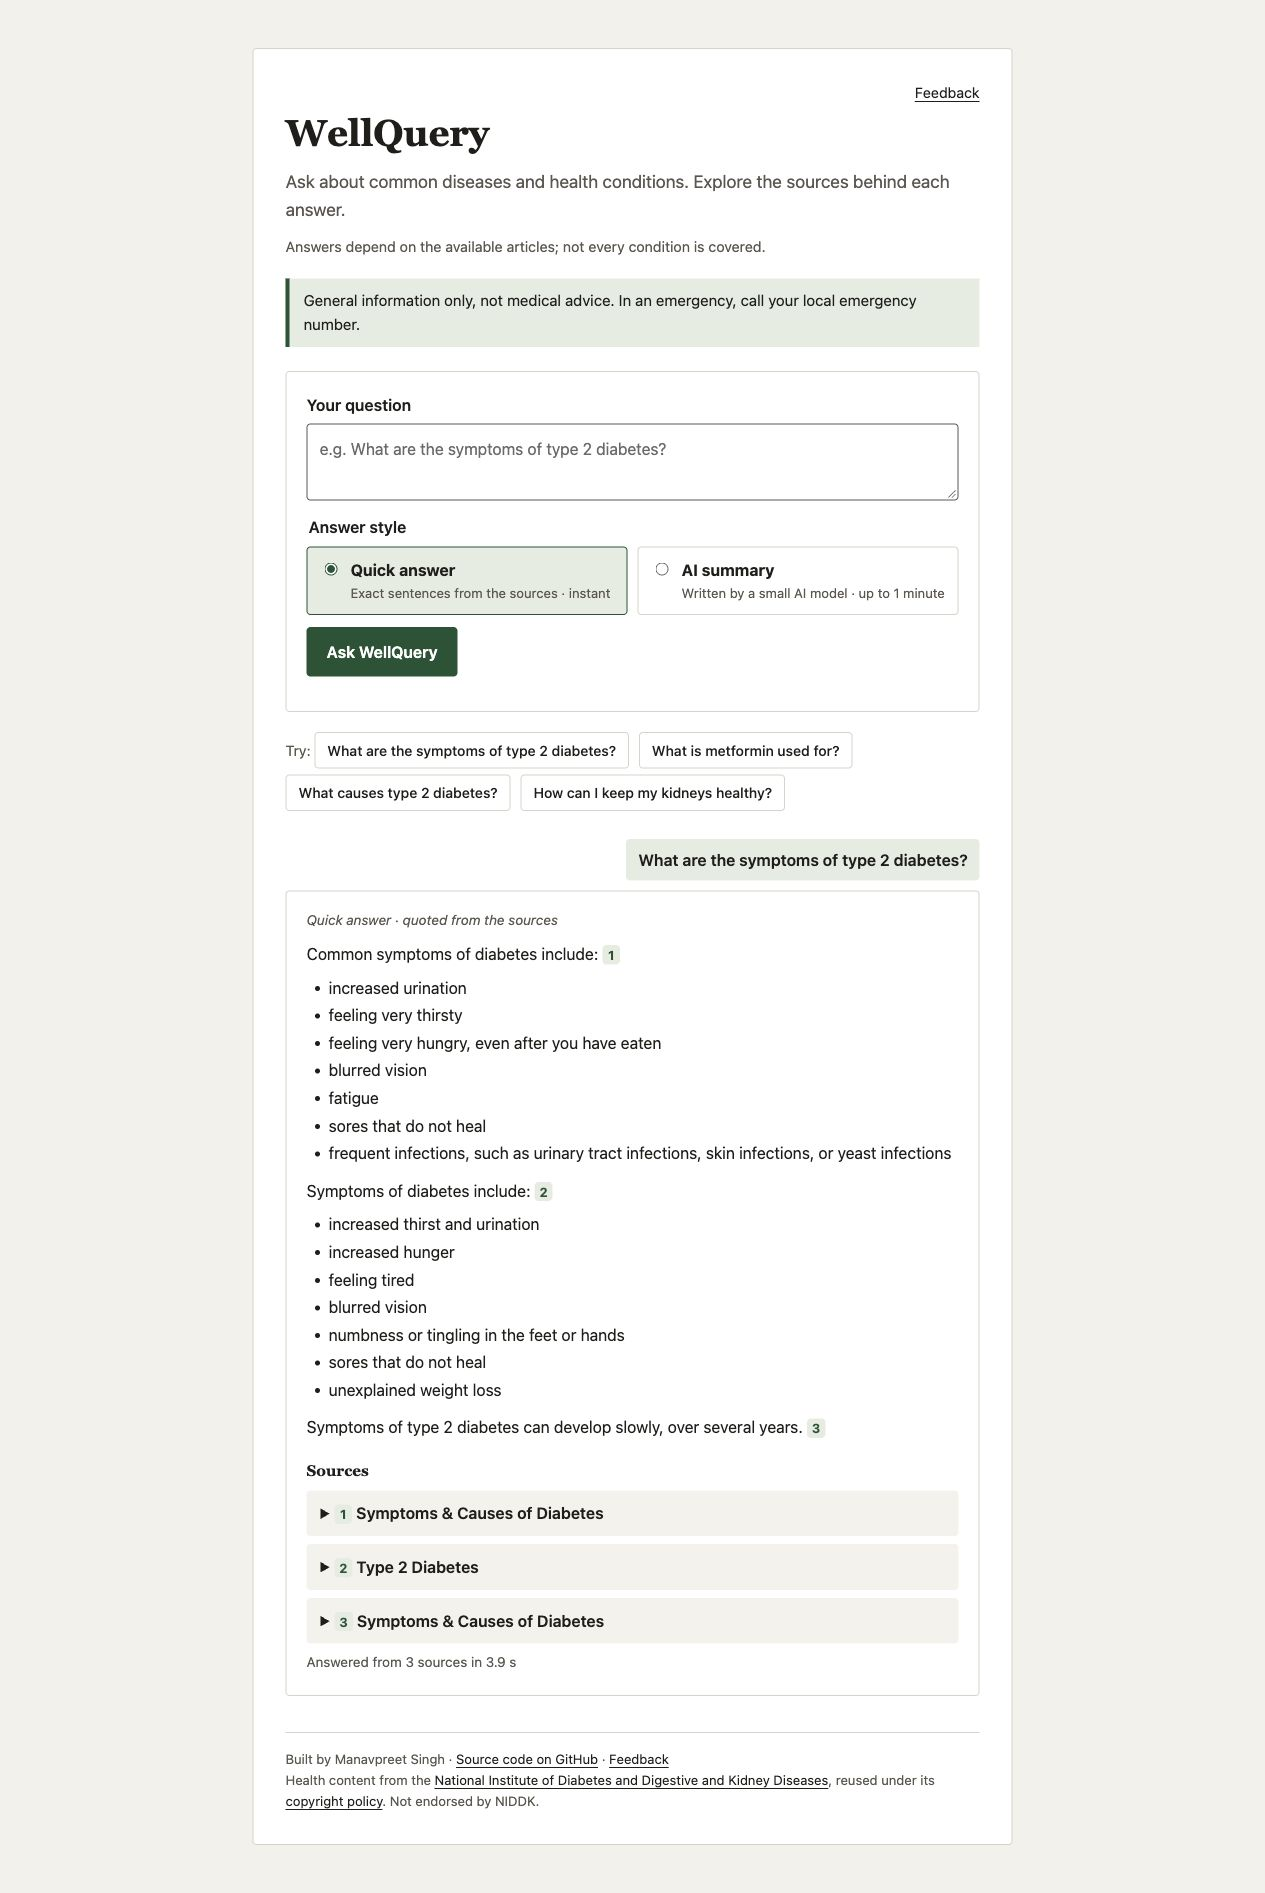
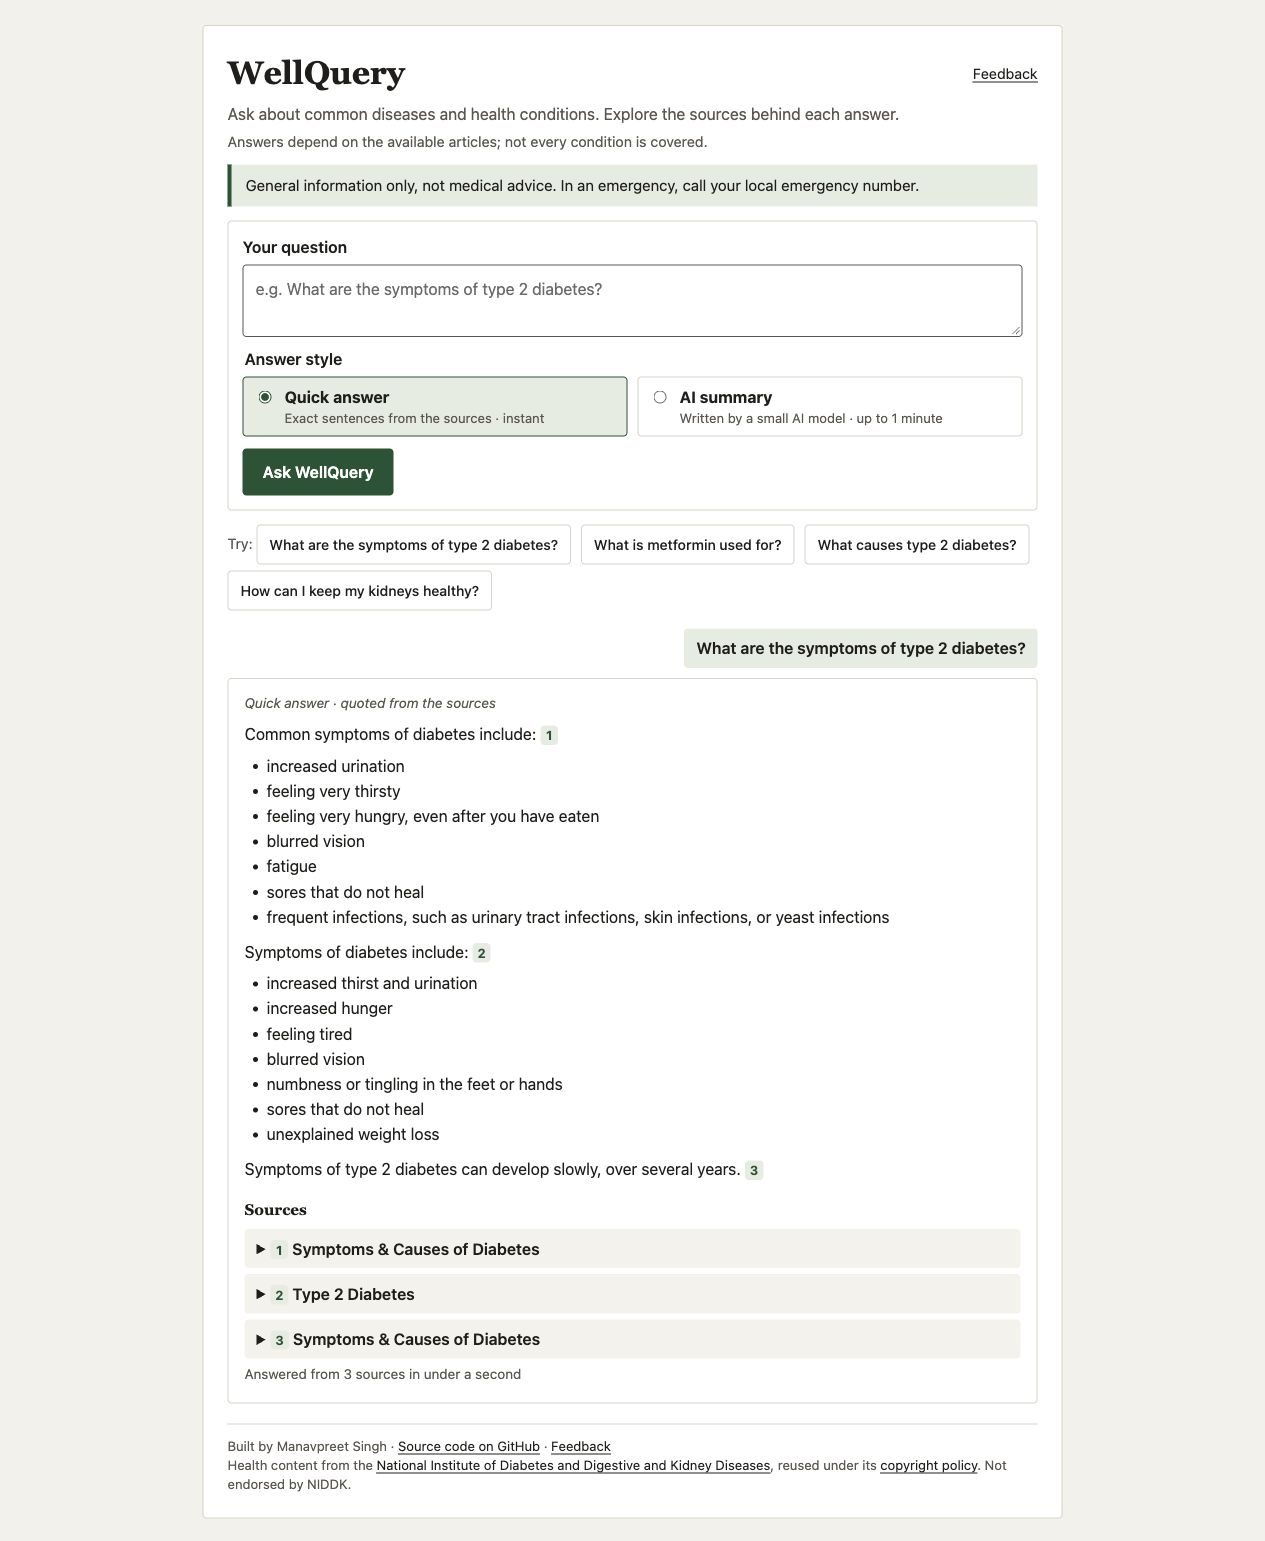
style: compact WellQuery layout and refresh preview

Changed region(s): [[0.185, 0.0311, 0.8016, 0.9656], [0.6474, 0.3115, 0.8016, 0.3738], [0.7399, 0.0311, 0.8016, 0.0623]]

diff --git a/static/style.css b/static/style.css
@@ -12,8 +12,8 @@
   }
 }
 * { box-sizing: border-box; }
-body { margin: 0; padding: 24px 16px; background: var(--bg); color: var(--text); font: 16px/1.6 system-ui, sans-serif; }
-main { max-width: 760px; margin: 24px auto; padding: 32px; border: 1px solid var(--line); border-radius: 4px; background: var(--card); }
+body { margin: 0; padding: 16px; background: var(--bg); color: var(--text); font: 16px/1.45 system-ui, sans-serif; }
+main { max-width: 860px; margin: 8px auto; padding: 24px; border: 1px solid var(--line); border-radius: 4px; background: var(--card); }
 h1, h2, h3 { font-family: var(--heading); font-weight: 600; }
 a { color: var(--link); text-underline-offset: 3px; }
 :focus-visible { outline: 2px solid var(--accent); outline-offset: 3px; }
@@ -24,27 +24,30 @@ textarea { display: block; width: 100%; margin-top: 6px; padding: 12px; font: in
 select { width: 100%; padding: 10px; margin: 8px 0; font: inherit; }
 
 /* Chat page */
-.hero nav { text-align: right; font-size: .9rem; }
-.hero h1 { margin: 0; font-size: 2.3rem; }
-.tagline { margin: 4px 0 12px; font-size: 1.1rem; color: var(--muted); }
-.coverage { display: flex; flex-wrap: wrap; gap: 0; margin: 0 0 20px; padding: 0; list-style: none; color: var(--muted); font-size: .9rem; }
+.hero { display: grid; grid-template-columns: 1fr auto; align-items: center; gap: 6px 16px; }
+.hero nav { grid-column: 2; grid-row: 1; text-align: right; font-size: .9rem; }
+.hero h1 { grid-column: 1; grid-row: 1; }
+.hero .tagline, .hero .coverage { grid-column: 1 / -1; }
+.hero h1 { margin: 0; font-size: 2rem; }
+.tagline { margin: 0; font-size: 1rem; color: var(--muted); }
+.coverage { display: flex; flex-wrap: wrap; gap: 0; margin: 0 0 12px; padding: 0; list-style: none; color: var(--muted); font-size: .9rem; }
 .coverage li + li::before { content: '·'; padding: 0 8px; }
-.notice { margin: 0 0 24px; border-left: 4px solid var(--accent); padding: 10px 14px; background: var(--accent-soft); font-size: .95rem; }
+.notice { margin: 0 0 14px; border-left: 4px solid var(--accent); padding: 10px 14px; background: var(--accent-soft); font-size: .95rem; }
 #mode, #status { font-size: .9rem; }
-.ask { padding: 20px; border: 1px solid var(--line); border-radius: 4px; }
-.styles { display: grid; grid-template-columns: 1fr 1fr; gap: 10px; margin: 14px 0 0; padding: 0; border: 0; }
+.ask { padding: 14px; border: 1px solid var(--line); border-radius: 4px; }
+.styles { display: grid; grid-template-columns: 1fr 1fr; gap: 10px; margin: 10px 0 0; padding: 0; border: 0; }
 .styles legend { margin-bottom: 6px; font-weight: 600; }
-.style-option { display: flex; gap: 10px; align-items: flex-start; padding: 10px 12px; border: 1px solid var(--line); border-radius: 4px; font-weight: 400; cursor: pointer; }
+.style-option { display: flex; gap: 10px; align-items: flex-start; padding: 8px 10px; border: 1px solid var(--line); border-radius: 4px; font-weight: 400; cursor: pointer; }
 .style-option:has(input:checked) { border-color: var(--accent); background: var(--accent-soft); }
 .style-option input { margin-top: 5px; accent-color: var(--accent); }
 .style-option small { display: block; color: var(--muted); font-size: .82rem; }
-#examples { margin: 14px 0 0; color: var(--muted); font-size: .9rem; }
+#examples { margin: 8px 0 0; color: var(--muted); font-size: .9rem; }
 #examples .example { margin: 6px 6px 0 0; padding: 6px 12px; border: 1px solid var(--accent); background: transparent; color: var(--accent); font-size: .88rem; font-weight: 500; }
 #examples .example:hover { background: var(--accent-soft); }
 #examples .example { color: var(--text); border-color: var(--line); }
-.turn { margin: 28px 0; }
+.turn { margin: 18px 0; }
 .question { margin: 0 0 10px auto; width: fit-content; max-width: 85%; padding: 8px 12px; border-radius: 4px; background: var(--accent-soft); color: var(--text); font-weight: 600; overflow-wrap: anywhere; }
-.answer { padding: 18px 20px; border: 1px solid var(--line); border-radius: 4px; overflow-wrap: anywhere; }
+.answer { padding: 14px 16px; border: 1px solid var(--line); border-radius: 4px; overflow-wrap: anywhere; }
 .answer.loading { color: var(--muted); }
 .answer.loading p::before { content: ""; display: inline-block; width: .8em; height: .8em; margin-right: 10px; border: 2px solid var(--accent); border-right-color: transparent; border-radius: 50%; animation: spin 0.8s linear infinite; }
 @keyframes spin { to { transform: rotate(360deg); } }
@@ -55,7 +58,7 @@ select { width: 100%; padding: 10px; margin: 8px 0; font: inherit; }
 .claim li { margin: 2px 0; }
 .cite { display: inline-block; min-width: 1.4em; padding: 0 5px; border-radius: 4px; background: var(--accent-soft); color: var(--accent); font-size: .8rem; font-weight: 700; text-align: center; text-decoration: none; line-height: 1.5; }
 .answer h3 { margin: 18px 0 8px; font-size: .95rem; }
-details.source { margin: 8px 0; padding: 10px 14px; background: var(--quote); border-radius: 4px; }
+details.source { margin: 6px 0; padding: 8px 12px; background: var(--quote); border-radius: 4px; }
 details.source > summary { cursor: pointer; font-weight: 600; }
 blockquote { margin: 10px 0; padding-left: 12px; border-left: 3px solid var(--accent); }
 details.passage { margin: 6px 0 10px; font-size: .9rem; }
@@ -66,7 +69,7 @@ details.passage summary { cursor: pointer; color: var(--link); }
 .refusal.urgent { background: var(--urgent-soft); color: var(--urgent); }
 .refusal.caution { background: var(--caution-soft); color: var(--caution); }
 .error { margin: 0; color: var(--urgent); }
-footer { margin-top: 36px; padding-top: 16px; border-top: 1px solid var(--line); color: var(--muted); font-size: .82rem; }
+footer { margin-top: 20px; padding-top: 12px; border-top: 1px solid var(--line); color: var(--muted); font-size: .82rem; }
 @media (max-width: 540px) {
   body { padding: 8px; } main { padding: 18px 16px; margin: 8px auto; }
   .styles { grid-template-columns: 1fr; } .ask { padding: 14px; } .answer { padding: 14px; }
@@ -82,3 +85,8 @@ th, td { padding: 12px; text-align: left; border-bottom: 1px solid var(--line); 
 thead { background: var(--accent-soft); }
 meter { width: 70px; }
 dd { margin: 0 0 12px; overflow-wrap: anywhere; }
+
+/* Empty status messages should not reserve a blank row in the form. */
+#status:empty { display: none; }
+button { min-height: 40px; }
+textarea { min-height: 72px; }

diff --git a/templates/evaluation.html b/templates/evaluation.html
@@ -1,5 +1,5 @@
 <!doctype html><html lang="en"><head><meta charset="utf-8"><meta name="viewport" content="width=device-width,initial-scale=1">
-<title>WellQuery · Evaluation</title><link rel="stylesheet" href="{{ request.url_for('static', path='style.css') }}"></head>
+<title>WellQuery · Evaluation</title><link rel="stylesheet" href="{{ request.url_for('static', path='style.css') }}?v=2"></head>
 <body><main class="dashboard"><nav><a href="/">← Chat</a></nav><h1>Evaluation results</h1>
 <p>Compare retrieval methods and inspect what has actually been reviewed.</p>
 <p class="notice">Question verification and exact quotations do not establish answer correctness or clinical safety.</p>

diff --git a/templates/index.html b/templates/index.html
@@ -2,7 +2,7 @@
 <html lang="en"><head><meta charset="utf-8"><meta name="viewport" content="width=device-width,initial-scale=1">
 <title>WellQuery</title>
 <meta name="description" content="Ask general questions about common diseases and health conditions, and read the available source passages.">
-<link rel="stylesheet" href="{{ request.url_for('static', path='style.css') }}"></head>
+<link rel="stylesheet" href="{{ request.url_for('static', path='style.css') }}?v=2"></head>
 <body><main>
 <header class="hero">
   <nav><a href="https://github.com/manavpreet1809/WellQuery/issues">Feedback</a></nav>
